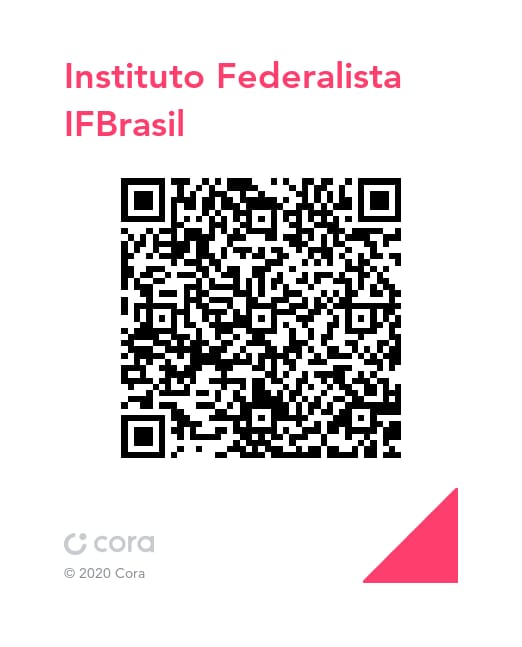
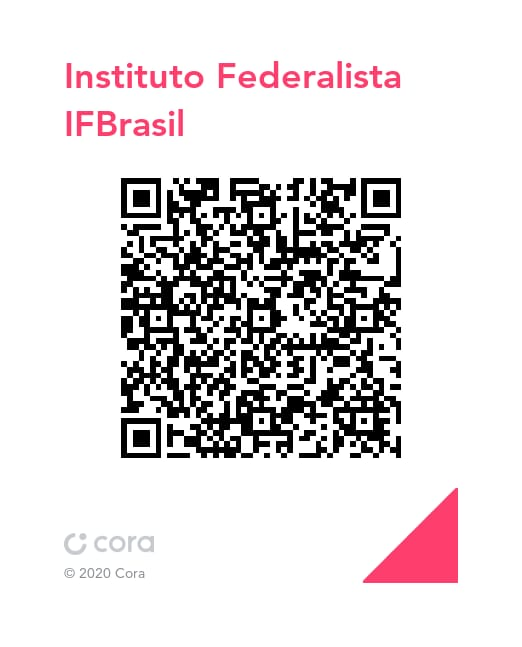
Atualizado textos conforme orientação

Changed region(s): [[0.2146, 0.2782, 0.7663, 0.711]]

diff --git a/index.html b/index.html
@@ -140,7 +140,7 @@
                                 responsável pela educação, segurança e pelo processo eleitoral, garantindo uma
                                 gestão
                                 independente sem interferência federal. Por fim, o estado tem o papel de auxiliar
-                                municípios e microrregiões de maneira suplementar, promovendo</p>
+                                municípios e microrregiões de maneira suplementar, promovendo com o desenvolvimento estadual.</p>
                         </nav>
                     </div>
                     <div class="pessoasFelizes">
@@ -236,11 +236,11 @@
                 <p class="fade-left"> O <strong>Ação Federalista</strong> será o único partido que ataca a causa dos
                     problemas, o
                     centralismo excessivo da estrutura do Estado Brasileiro. Além dos riscos das decisões tomadas pelo
-                    Executivo, Congresso e Judiciário obrigatórias para todo o País, Cerca de 75% de tudo que se
+                    Executivo, Congresso e Judiciário obrigatórias para todo o País. Cerca de 75% de tudo que se
                     arrecada vai para o Governo Federal e a Reforma Tributária quer concentrar 100%! Esta estrutura
-                    equivocada é a causa de todos os problemas – burocracia, privilégios para poucos, corrupção,
+                    equivocada é a causa de todos os problemas. Burocracia, privilégios para poucos, corrupção,
                     injustiça, insegurança, baixa renda para a maioria da população, cada vez mais dificuldades em tudo
-                    para os brasileiros pode ter um fim! E isto começa com <strong>Ação Federalista</strong>, ou seja, a
+                    para os brasileiros terá um fim! E isto começa com <strong>Ação Federalista</strong>, ou seja, a
                     ação do Povo
                     Brasileiro através de uma nova entidade política, para, dentro da democracia, fazer uma nova
                     Federação com uma nova Constituição.</p>
@@ -266,13 +266,13 @@
                     <div class="textUniao">
                         <p class="fade-left">Mais que um partido, o <strong>Ação Federalista</strong> será uma entidade
                             política popular
-                            que visa re-unir o Povo Brasileiro, não por uma ideologia, mas pela reorganização que trará
+                            que visa <em><strong>re-unir</strong></em> o Povo Brasileiro, não por uma ideologia, mas pela reorganização que trará
                             o poder para perto e não mais permitirá que os recursos sejam centralizados, deixando todo
-                            mundo à míngua. A proposta é sim, de Refundação do Brasil, e para isto, temos de nos
+                            mundo à míngua. A proposta é sim, de <strong>Refundação do Brasil</strong>, e para isto, temos de nos
                             organizar no <strong>Ação Federalista</strong> juntando-nos, pois só assim seremos fortes.
                             Temos certeza de
                             que o momento é de amadurecimento da Sociedade Brasileira, que já viu e vivenciou muita
-                            coisa e está em condições de ligar os efeitos com a causa. Vamos ver o que você pode fazer?
+                            coisa e está em condições de ligar os efeitos com a causa. <strong>Vamos ver o que você pode fazer?</strong>
                         </p>
                     </div>
                     <div class="imgUniao fade-right">

diff --git a/assets/html/sistemaTributario.html b/assets/html/sistemaTributario.html
@@ -104,9 +104,9 @@
                             politicamente seletiva, clientelista e ideológica. E querem, com a reforma tributária, ficar
                             com 100% e deixar todo muno dependente dos governantes que estiverem no trono federal.
                             Ninguém concorda com este absurdo, mas eles não estão nem aí!</p>
-                            <div class="imagemMoeda">
-                                <img src="../img/footer/imagemMoedas.jpeg" alt="">
-                            </div>
+                        <div class="imagemMoeda">
+                            <img src="../img/footer/imagemMoedas.jpeg" alt="">
+                        </div>
                         <p> Portanto, o que vamos, você e nós todos, pagadores da conta que tanto custa para todos, já
                             com o federalismo pleno, conseguir a reestruturação total do pérfido sistema atual, o pior
                             do mundo. Como dito acima, teremos o IC – Imposto sobre Consumo – cujas alíquotas serão
@@ -115,9 +115,10 @@
                             destacado do preço do produto ou serviço, e recolhido automaticamente para a cidade, na sua
                             alíquota definida pela mesma, para o estado federado, e para o Governo Central.
                         </p>
-                        <p>Central terá direito ainda a impostos de comércio exterior e suas autarquias serão
+                        <p>O Governo Central terá direito ainda a impostos de comércio exterior e suas autarquias serão
                             financiadas com taxas diretas.
-                            Não haverá Imposto de Renda da pessoa física nem jurídica.</p>
+                            <strong>Não haverá Imposto de Renda da pessoa física nem jurídica</strong>.
+                        </p>
                         <p> Estados e cidades poderão criar outros impostos temporários ou permanentes, com <strong>
                                 aprovação em
                                 referendos.

diff --git a/assets/html/contribuicoes.html b/assets/html/contribuicoes.html
@@ -158,7 +158,7 @@
                                 <img src="../img/PIX/QRCODE.jpeg" alt="QR Code" class="qr-code">
                                 <button class="copy-button" onclick="copiarCodigo()">Código copia e cola <i
                                         class="bi bi-link"></i></button>
-                                <span class="emailPix">contato@if.org.br</span>
+                                <span class="emailPix">eucontribuo@federalista.org.br</span>
                             </div>
                         </div>
                         <div id="thankYouModal" class="modal">

diff --git a/assets/js/copy.js b/assets/js/copy.js
@@ -1,5 +1,5 @@
 function copiarCodigo() {
-    const codigo = "00020126390014br.gov.bcb.pix0117contato@if.org.br5204000053039865802BR5925INSTITUTO FEDERALISTA IFB6008CURITIBA62250521s10AOsVEU3XiUFHEsxwfE63047EB1";
+    const codigo = "00020126520014br.gov.bcb.pix0130eucontribuo@federalista.org.br5204000053039865802BR5925INSTITUTO FEDERALISTA IFB6008CURITIBA62250521s10AOsVEU3XiUFHEsxwfE6304B08D";
     navigator.clipboard.writeText(codigo).then(() => {
         alert("Código copiado para a área de transferência!");
     });
